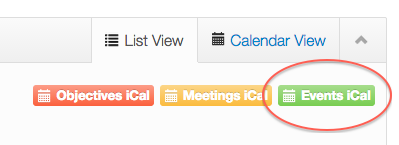
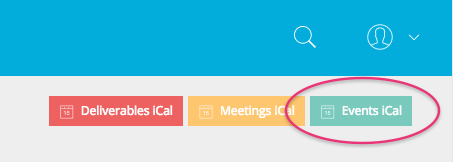
Updating docs for 2.0. Admin section and FAW not yet completed

diff --git a/src/beekeeper/user.md b/src/beekeeper/user.md
@@ -6,23 +6,23 @@ Some Beekeeper sites allow user "self-registration" via the "Register" link from
 
 ## Edit Your Account Information
 
-You are encouraged to update your user account and profile information by clicking on "Dashboard" from the site's main menu and then clicking on "Edit Account..." or "Edit Profile..." from the Profile box in the left nav area.
+You are encouraged to update your user account and profile information by clicking on "User menu" in the upper right of your screen and then clicking on "Edit Account..." or "Edit Profile...".
 
-![Edit Account & Profile](./images/edit_account_info.png) 
+![Edit Account & Profile Full Screen View](./images/edit_account_full_screen.png)
 
 | Edit Account Fields            | Edit Profile Fields                                        |
 |:------------------------------:|:----------------------------------------------------------:|
-| Email, Password<br><br> <font size="-2">You are permitted to change your account email and your password only unless you have been granted an administrator <a href="#Roles">role</a>.</font>    | First Name, Last Name, Phone, Profile Picture, Gender, Website, Twitter URL, LinkedIn URL, Facebook URL, Bio, Interests, How did you hear about us?, Birthday, Areas of Expertise |
+| Email, Password<br><br> <font size="-2">You are permitted to change your account email and your password only unless you have been granted an administrator <a href="#Roles">role</a>.</font>    | First Name, Last Name, Nickname, Phone, Profile Picture, Gender, Website, Twitter URL, LinkedIn URL, Facebook URL, Bio, Interests, How did you hear about us?, Birthday, Featured Event notification preference, Areas of Expertise |
 
 # Manage Content
 
-Beekeeper helps you manage Events, Meetings and Objectives for your program and only lets people see the content that they are supposed to see as dictated by their role.
+Beekeeper helps you manage Events, Meetings and Deliverables for your program and only lets people see the content that they are supposed to see as dictated by their role.
 
 ## Calendar & iCal
 
-All "scheduleable" content (`Events`, `Meetings`, and `Objectives`) are displayed in the context of a calendar. A list view is also available. Both are available when you click on the "Dashboard" menu item.
+All "scheduleable" content (`Events`, `Meetings`, and `Deliverables`) are displayed in the context of a calendar. A list view is also available. Both are available in a quick view section at the top of the the "Dashboard" screen.
 
-Each "scheduleable" content type has its own/separate iCal feed. You may subscribe to each of these iCal feeds using any calendar tool that supports the iCal format (for example: Outlook, iCal, Google Calendar, etc).
+Each "scheduleable" content type has its own/separate iCal feed. You may subscribe to each of these iCal feeds using any calendar tool that supports the iCal format (for example: Google Calendar, Outlook, iCal, etc).
 
 ## Events
 
@@ -30,25 +30,25 @@ Events represent internal or public calendar entries created for your site membe
 
 As with all scheduled content, you can subscribe to a personalized `Events` iCal feed by clicking on the Events iCal button ![Events iCal URL](./images/events_ical.png) 
 
-The Events iCal URL provided to you is unique to your account and shows all of the events that are available to you. The URL provided works for all iCal supported calendars: Outlook, iCal, Google Calendar, etc. ![Events iCal URL Dialog](./images/events_ical_dlg.png) 
+The Events iCal URL provided to you is unique to your account and shows all of the events that are available to you. The URL provided works for all iCal supported calendars: Google Calendar, Outlook, iCal, etc. ![Events iCal URL Dialog](./images/events_ical_dlg.png) 
 
 ## Meetings
 
 As with all scheduled content, you can subscribe to a personalized `Meetings` iCal feed by clicking on the Meetings iCal button ![Meetings iCal URL](./images/meetings_ical.png) 
 
-The Meetings iCal URL provided to you is unique to your account and shows all of the Meetings to which you are invited. The URL provided works for all iCal supported calendars: Outlook, iCal, Google Calendar, etc. ![Meetings iCal URL Dialog](./images/meetings_ical_dlg.png) 
+The Meetings iCal URL provided to you is unique to your account and shows all of the Meetings to which you are invited. The URL provided works for all iCal supported calendars: Google Calendar, Outlook, iCal, etc. ![Meetings iCal URL Dialog](./images/meetings_ical_dlg.png) 
 
 ## Meeting Notes
 
-## Objectives
+## Deliverables
 
-As with all scheduled content, you can subscribe to a personalized `Objectives` iCal feed by clicking on the Objectives iCal button ![Objectives iCal URL](./images/objectives_ical.png) 
+As with all scheduled content, you can subscribe to a personalized `Deliverables` iCal feed by clicking on the Deliverables iCal button ![Deliverables iCal URL](./images/deliverables_ical.png) 
 
-The Objectives iCal URL provided to you is unique to your account and shows all of the Objectives to which you are invited. The URL provided works for all iCal supported calendars: Outlook, iCal, Google Calendar, etc. ![Objectives iCal URL Dialog](./images/objectives_ical_dlg.png) 
+The Deliverables iCal URL provided to you is unique to your account and shows all of the Deliverables to which you are invited. The URL provided works for all iCal supported calendars: Google Calendar, Outlook, iCal, etc. ![Deliverables iCal URL Dialog](./images/deliverables_ical_dlg.png) 
 
 ## Manage Ventures
 
-Core `Venture` administration is typically left to the administrators of your site, but `Venture Profile` management is the user's responsibility. You are encouraged to update your venture profile information by clicking on "Dashboard" from the site's main menu and then clicking on the venture that you will be editing from the left nav area. There you will click on the the "Edit Venture Profile" button to make any changes.
+Core `Venture` administration is typically left to the administrators of your site, but `Venture Profile` management is the user's responsibility. You are encouraged to update your venture profile information by going to the "Dashboard" screen and then clicking on the venture that you will be editing from the "Actions" box. Once you are on the company page, you will click on the the "Edit Venture Profile" button to make any changes.
 
 Some sites may permit their users to register their own ventures on the site. If the site settings are set to allow this, then you will see an "Add Venture" button in the left nav area grouped with the other "Add" buttons. In the more common (but not default) case where site settings allow for core Venture *updates*, an "Edit Venture" button will be shown alongside to the "Edit Venture Profile" button. *You can ask your Administrator for details on how your Site Settings are configured*
 
@@ -66,61 +66,63 @@ Each user is granted one or more roles in Beekeeper. Your role dictates which ac
 
 Your roles are shown in the Profile box in the left nav area in the "Dashboard" pages. ![User Role](./images/user_role.png)
 
-In the tables below, we have separated roles into two types: Administrator Roles (`ADMINISTRATOR`, `DIRECTOR`, `USER ADMINISTRATOR`, `CONTENT DEVELOPER`) and User Roles (`USER`, `ENTREPRENEUR`, `COACH`, `COACH (INTERNAL)`).
+In the tables below, we have separated roles into two types: Administrator Roles (`ADMINISTRATOR`, `DIRECTOR`, `USER ADMINISTRATOR`, `CONTENT DEVELOPER`) and User Roles (`ENTREPRENEUR`, `COACH`, `COACH (INTERNAL)`, 'EXECUTIVE', 'REPORTS USER').
 
 ### Administrator Roles
 
-| &nbsp;                         | ADMINISTRATOR | DIRECTOR | USER ADMINISTRATOR | CONTENT DEVELOPER |
-|:------------------------------:|:-------------:|:--------:|:------------------:|:-----------------:|
-| Create Users                   |       X       |     X    |          X         |                   |
-| Edit (Other) Users             |       X       |     X    |          X         |                   |
-| Delete Users                   |       X       |          |                    |                   |
-| Edit (Others') User Profiles   |       X       |     X    |          X         |                   |
-| Assign (Others') Roles         |       X       |     X    |          X         |                   |
-| Set (Others') Passwords        |       X       |     X    |                    |                   |
-| Create Events                  |       X       |     X    |                    |         X         |
-| Edit Events                    |       X       |     X    |                    |         X         |
-| Delete Events                  |       X       |     X    |                    |         X         |
-| View (Others') Meetings        |       X       |     X    |                    |                   |
-| Create Meetings                |       X       |     X    |                    |                   |
-| Edit Meetings                  |       X       |     X    |                    |                   |
-| Delete Meetings                |       X       |     X    |                    |                   |
-| View (Others') Objectives      |       X       |     X    |                    |                   |
-| Create Objectives              |       X       |     X    |                    |                   |
-| Edit Objectives                |       X       |     X    |                    |                   |
-| Delete Objectives              |       X       |     X    |                    |                   |
-| View (Others') Venture Data    |       X       |     X    |                    |                   |
-| Edit (Others') Ventures        |       X       |     X    |                    |                   |
-| Delete Ventures                |       X       |          |                    |                   |
-| Edit (Others') Venture Profiles|       X       |     X    |                    |                   |
-| View System Reports            |       X       |     X    |                    |                   |
-| Change Site Colors             |       X       |          |                    |                   |
-| Change Site Time Zone          |       X       |          |                    |                   |
-| Edit Front Page Content        |       X       |          |                    |         X         |
-| Change Site Contact Info       |       X       |          |                    |         X         |
-| Change Site Social Media Info  |       X       |          |                    |         X         |
+| &nbsp;                         | ADMINISTRATOR | DIRECTOR | USER ADMINISTRATOR | CONTENT DEVELOPER | EXECUTIVE |
+|:------------------------------:|:-------------:|:--------:|:------------------:|:-----------------:|:----------|
+| Create Users                   |       X       |     X    |          X         |                   |           |
+| Edit (Other) Users             |       X       |     X    |          X         |                   |           |
+| Delete Users                   |       X       |          |                    |                   |           |
+| Edit (Others') User Profiles   |       X       |     X    |          X         |                   |           |
+| Assign (Others') Roles         |       X       |     X    |          X         |                   |           |
+| Set (Others') Passwords        |       X       |     X    |                    |                   |           |
+| Create Events                  |       X       |     X    |                    |         X         |           |
+| Edit Events                    |       X       |     X    |                    |         X         |           |
+| Delete Events                  |       X       |     X    |                    |         X         |           |
+| View (Others') Meetings        |       X       |     X    |                    |                   |           |
+| Create Meetings                |       X       |     X    |                    |                   |           |
+| Edit Meetings                  |       X       |     X    |                    |                   |           |
+| Delete Meetings                |       X       |     X    |                    |                   |           |
+| View (Others') Deliverables    |       X       |     X    |                    |                   |           |
+| Create Deliverables            |       X       |     X    |                    |                   |           |
+| Edit Deliverables              |       X       |     X    |                    |                   |           |
+| Delete Deliverables            |       X       |     X    |                    |                   |           |
+| View (Others') Venture Data    |       X       |     X    |                    |                   |           |
+| Edit (Others') Ventures        |       X       |     X    |                    |                   |           |
+| Delete Ventures                |       X       |          |                    |                   |           |
+| Edit (Others') Venture Profiles|       X       |     X    |                    |                   |           |
+| View System Reports            |       X       |     X    |                    |                   |           |
+| Change Site Colors             |       X       |          |                    |                   |           |
+| Change Site Time Zone          |       X       |          |                    |                   |           |
+| Edit Front Page Content        |       X       |          |                    |         X         |           |
+| Change Site Contact Info       |       X       |          |                    |         X         |           |
+| Change Site Social Media Info  |       X       |          |                    |         X         |           |
 
 ### User Roles
 
-| &nbsp;                                                |     ENTREPRENEUR     |   USER   |     COACH (NON-STAFF)   | COACH (INTERNAL/STAFF) |
-|:-----------------------------------------------------:|:--------------------:|:--------:|:-----------------------:|:----------------------:|
-| Create/Edit/Delete Events                             |                      |          |                         |                        |
-| View Events                                           |       X              |     X    |       X                 |         X              |
-| Create Meetings                                       |       X              |          |       X                 |         X              |
-| Edit Meetings (If Created by You)                     |       X              |          |       X                 |         X              |
-| Delete Meetings                                       |                      |          |                         |                        |
-| View Meetings (If Invited or Created)                 |       X              |     X    |       X                 |         X              |
-| View Meetings (If NOT Invited)                        |       X<sup>1</sup>  |          |                         |         X              |
-| Create/Edit Meeting Notes (If Invited to Meeting)     |       X              |     X    |       X                 |         X              |
-| Create/Edit Meeting Notes (If NOT Invited to Meeting) |       X<sup>1</sup>  |          |                         |         X              |
-| View Meeting Notes (If Invited to Meeting)            |       X              |     X    |       X                 |         X              |
-| View Meeting Notes (If NOT Invited to Meeting)        |       X<sup>1</sup>  |          |                         |         X              |
-| View Internal Meeting Notes (If Invited to Meeting)   |                      |          |                         |         X              |
-| Delete Meeting Notes (If Created)                     |       X              |          |       X                 |         X              |
-| Create Objectives                                     |       X              |          |       X                 |         X              |
-| Edit Objectives (If Created/Assigned)                 |       X              |          |       X                 |         X              |
-| Edit Objectives (If NOT Created/Assigned)             |                      |          |                         |                        |
-| View Objectives (If Created/Assigned)                 |       X              |     X    |       X                 |         X              |
-| View Objectives (If NOT Created/Assigned)             |       X<sup>1</sup>  |          |                         |         X              |
-| Delete Objectives (If Created/Assigned)               |                      |          |                         |                        |
+| &nbsp;                                                |     ENTREPRENEUR     |     COACH (NON-STAFF)   | COACH (INTERNAL/STAFF) | EXECUTIVE | REPORTS USER |
+|:-----------------------------------------------------:|:--------------------:|:-----------------------:|:----------------------:|:---------:|:-------------|
+| Create/Edit/Delete Events                             |                      |                         |                        |           |              |
+| View Events                                           |       X              |       X                 |         X              |           |              |
+| Create Meetings                                       |       X              |       X                 |         X              |           |              |
+| Edit Meetings (If Created by You)                     |       X              |       X                 |         X              |           |              |
+| Delete Meetings                                       |                      |                         |                        |           |              |
+| View Meetings (If Invited or Created)                 |       X              |       X                 |         X              |           |              |
+| View Meetings (If NOT Invited)                        |       X<sup>1</sup>  |                         |         X              |           |              |
+| Create/Edit Meeting Notes (If Invited to Meeting)     |       X              |       X                 |         X              |           |              |
+| Create/Edit Meeting Notes (If NOT Invited to Meeting) |       X<sup>1</sup>  |                         |         X              |           |              |
+| View Meeting Notes (If Invited to Meeting)            |       X              |       X                 |         X              |           |              |
+| View Meeting Notes (If NOT Invited to Meeting)        |       X<sup>1</sup>  |                         |         X              |           |              |
+| View Internal Meeting Notes (If Invited to Meeting)   |                      |                         |         X              |           |              |
+| Delete Meeting Notes (If Created)                     |       X              |       X                 |         X              |           |              |
+| Create Deliverables                                   |       X              |       X                 |         X              |           |              |
+| Edit Deliverables If Created/Assigned)                |       X              |       X                 |         X              |           |              |
+| Edit Deliverables If NOT Created/Assigned)            |                      |                         |                        |           |              |
+| View Deliverables If Created/Assigned)                |       X              |       X                 |         X              |           |              |
+| View Deliverables If NOT Created/Assigned)            |       X<sup>1</sup>  |                         |         X              |           |              |
+| Delete Deliverables If Created/Assigned)              |                      |                         |                        |           |              |
+| View Program Metrics (On Dashboard)                   |                      |                         |                        |    x      |              |
+| View Rollup Reports (On Dashboard)                    |                      |                         |                        |    x      |    x         |
 <sup>1</sup>If specified as an Executive for Company
